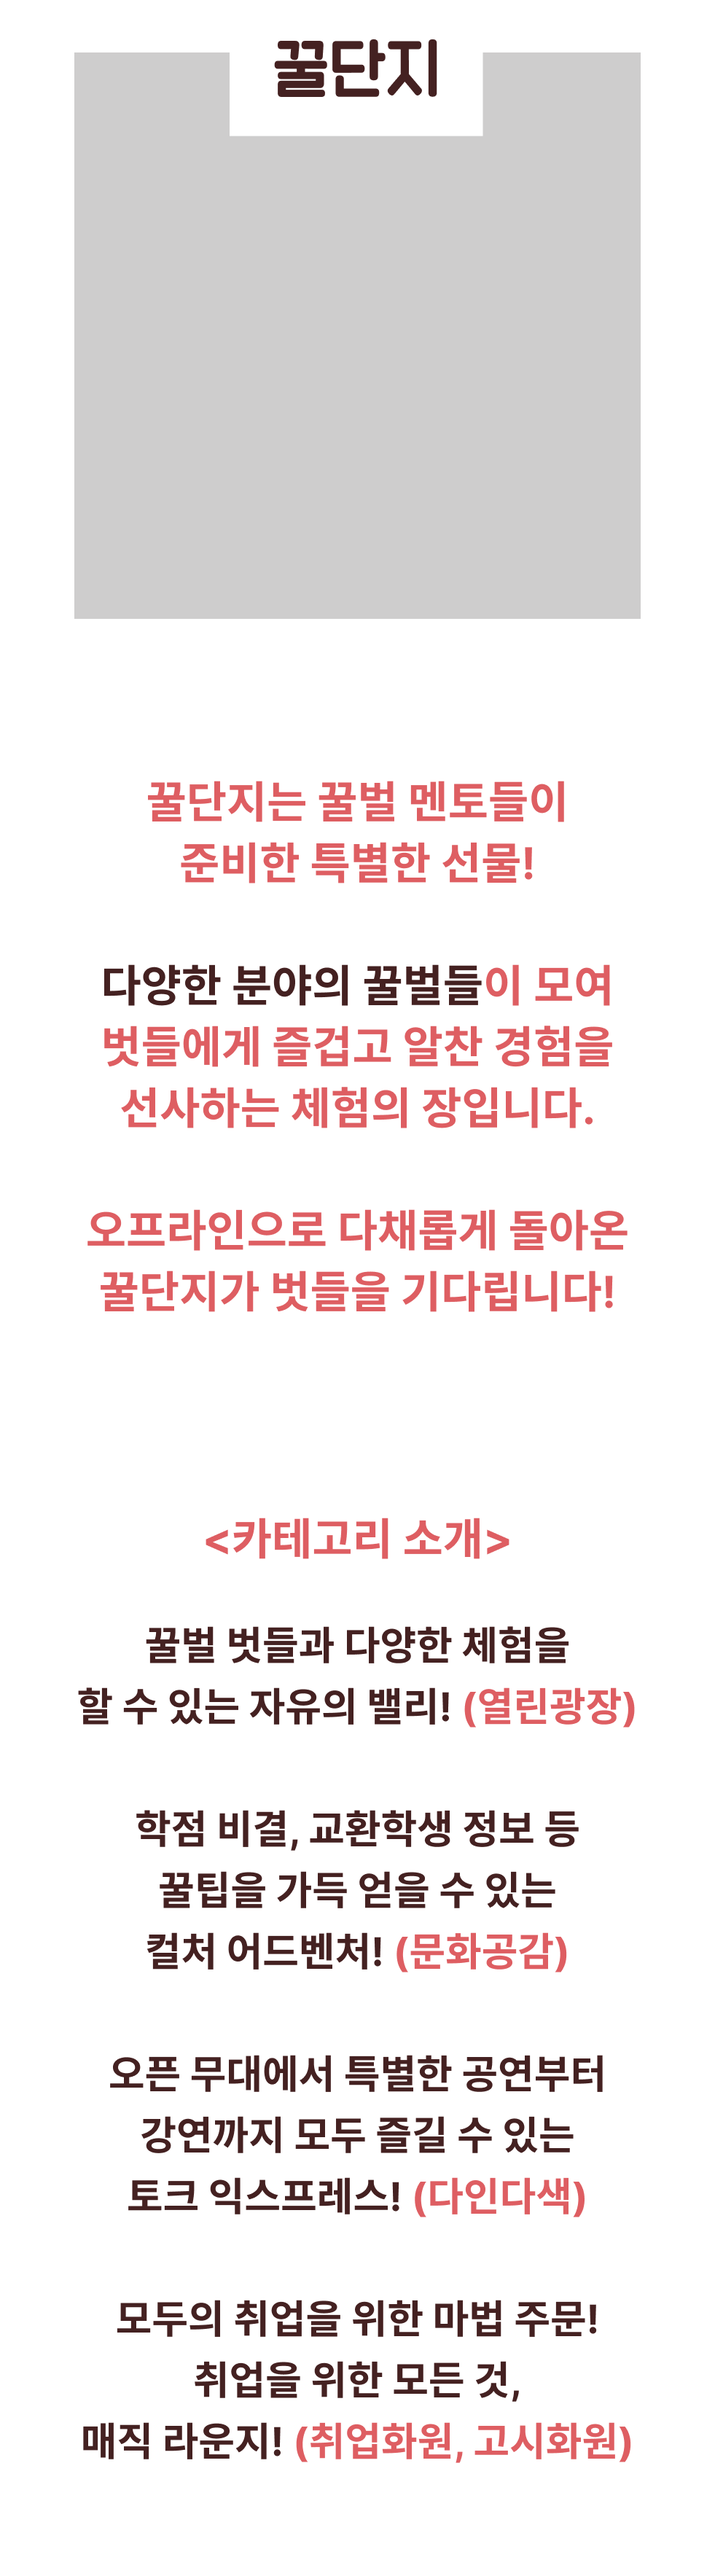
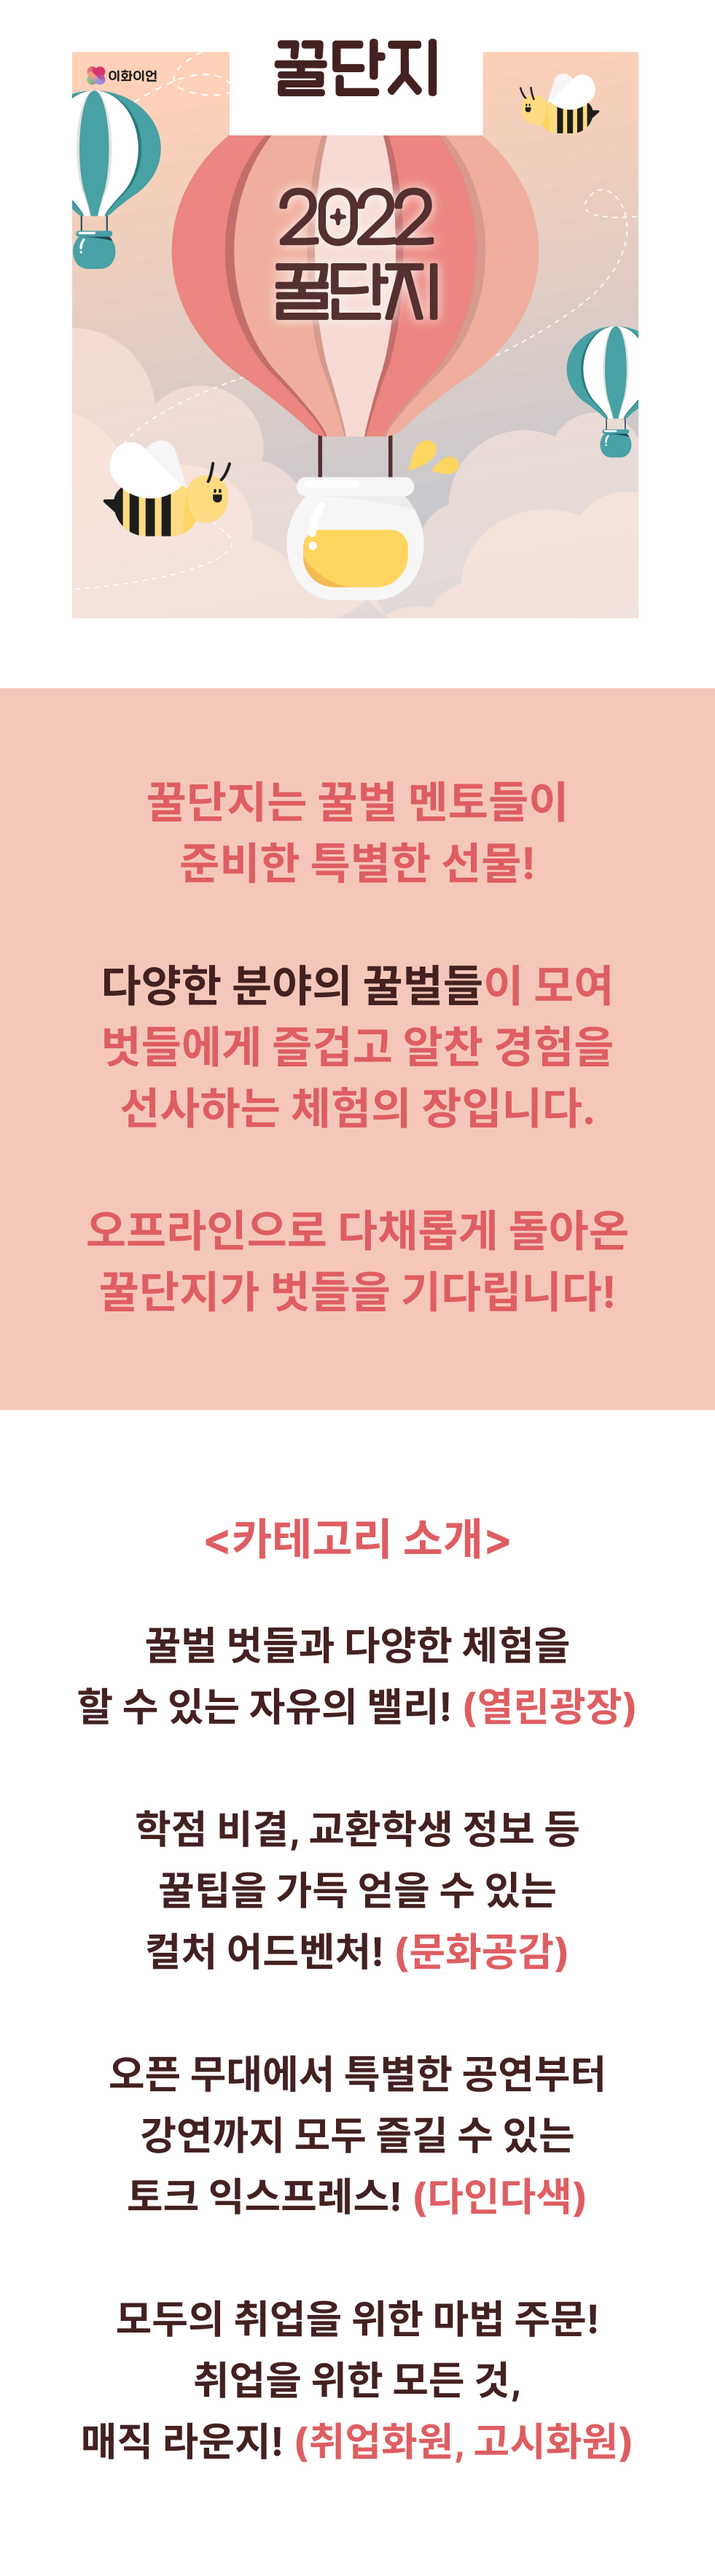
최종디자인 추가

diff --git a/src/views/event/Event.css b/src/views/event/Event.css
@@ -10,9 +10,12 @@
 
 
     .Navigation-Anchor {
-        width: 9px;
-        height: 9px;
+        width: 0;
 
+    }
+
+    .Navigation {
+        display: none;
     }
 
     .floatingBeotAlong {
@@ -987,7 +990,7 @@
         height: 38px;
         width: auto;
         display: flex;
-        padding-top: 5%;
+        padding-top: 2%;
     }
 
     .bingoname {
@@ -1043,6 +1046,7 @@
 
     .honeyjarname {
         padding-left: 25%;
+        margin-top: -7%;
     }
 
     .teacomname {
@@ -1055,6 +1059,7 @@
 
     .beotalongname {
         padding-left: 65%;
+        margin-top: -7%;
     }
 
 
@@ -1100,7 +1105,8 @@
     }
 
     .escapename {
-        padding-left: 5%;
+        padding-left: 10%;
+        margin-top: -7%;
     }
 
     /*팝업창*/
